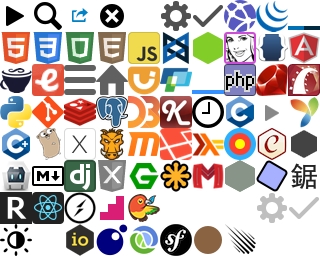
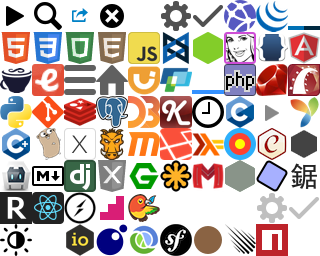
Add npm documentation

Changed region(s): [[0.7812, 0.875, 0.9062, 1.0]]

diff --git a/assets/stylesheets/global/_icons.scss b/assets/stylesheets/global/_icons.scss
@@ -99,3 +99,4 @@
 ._icon-symfony:before       { background-position: -5rem -7rem; }
 ._icon-mocha:before         { background-position: -6rem -7rem; }
 ._icon-meteor:before        { background-position: -7rem -7rem; @extend %darkIconFix !optional; }
+._icon-npm:before           { background-position: -8rem -7rem }

diff --git a/assets/stylesheets/pages/_npm.scss b/assets/stylesheets/pages/_npm.scss
@@ -1,0 +1,15 @@
+._npm {
+  @extend %simple;
+
+  .pageColumns {
+    padding-left: 0;
+    list-style: none;
+  }
+
+  .faint.heading {
+    font-size: .9em;
+    color: $textColorLight;
+  }
+
+  .youtube-video iframe { width: 420px; height: 315px; }
+}

diff --git a/assets/stylesheets/application-dark.css.scss b/assets/stylesheets/application-dark.css.scss
@@ -52,6 +52,7 @@
         'pages/moment',
         'pages/nginx',
         'pages/node',
+        'pages/npm',
         'pages/php',
         'pages/phpunit',
         'pages/postgres',

diff --git a/assets/stylesheets/application.css.scss b/assets/stylesheets/application.css.scss
@@ -52,6 +52,7 @@
         'pages/moment',
         'pages/nginx',
         'pages/node',
+        'pages/npm',
         'pages/php',
         'pages/phpunit',
         'pages/postgres',

diff --git a/assets/stylesheets/pages/_base.scss b/assets/stylesheets/pages/_base.scss
@@ -27,3 +27,4 @@
 ._sinon {
   @extend %simple;
 }
+

diff --git a/lib/docs/filters/npm/entries.rb b/lib/docs/filters/npm/entries.rb
@@ -1,0 +1,43 @@
+module Docs
+  class Npm
+    class EntriesFilter < Docs::EntriesFilter
+      def get_name
+        if slug.start_with?('api') && at_css('pre').content =~ /\A\s*npm\.([\w\-]+\.)*[\w\-]+/
+          name = $&.strip
+        else
+          name = at_css('nav > section.active a.active').content
+        end
+
+        name << ' (CLI)' if slug.start_with?('cli')
+        name
+      end
+
+      def get_type
+        case slug
+        when 'files/package.json'
+          'package.json'
+        when 'misc/config'
+          'Config'
+        else
+          at_css('nav > section.active > h2').content
+        end
+      end
+
+      def additional_entries
+        case slug
+        when 'files/package.json'
+          css('#page > h2[id]').each_with_object [] do |node, entries|
+            next if node.content =~ /\A[A-Z]/
+            entries << ["package.json: #{node.content}", node['id']]
+          end
+        when 'misc/config'
+          css('#config-settings ~ h3[id]').map do |node|
+            ["config: #{node.content}", node['id']]
+          end
+        else
+          []
+        end
+      end
+    end
+  end
+end

diff --git a/lib/docs/scrapers/npm.rb b/lib/docs/scrapers/npm.rb
@@ -1,0 +1,31 @@
+module Docs
+  class Npm < UrlScraper
+    self.name = 'npm'
+    self.type = 'npm'
+    self.version = '2.8.4'
+    self.base_url = 'https://docs.npmjs.com/'
+    self.links = {
+      home: 'https://www.npmjs.com/',
+      code: 'https://github.com/npm/npm'
+    }
+
+    html_filters.push 'npm/entries', 'npm/clean_html', 'title'
+
+    options[:container] = ->(filter) { filter.root_page? ? '.toc' : nil }
+    options[:title] = false
+    options[:root_title] = 'npm'
+
+    options[:skip] = %w(all)
+    options[:skip_patterns] = [
+      /\Aenterprise/,
+      /\Acompany/,
+      /\Apolicies/
+    ]
+
+    options[:attribution] = <<-HTML
+      &copy; npm, Inc. and Contributors<br>
+      Licensed under the npm License.<br>
+      npm is a trademark of npm, Inc.
+    HTML
+  end
+end

diff --git a/lib/docs/filters/npm/clean_html.rb b/lib/docs/filters/npm/clean_html.rb
@@ -1,0 +1,28 @@
+module Docs
+  class Npm
+    class CleanHtmlFilter < Filter
+      def call
+        if root_page?
+          css('#enterprise', '#policies', '#viewAll').remove
+        else
+          @doc = doc.at_css('#page')
+          css('meta', '.colophon').remove
+        end
+
+        css('> section', '.deep-link > a').each do |node|
+          node.before(node.children).remove
+        end
+
+        css('pre.editor').each do |node|
+          node.inner_html = node.inner_html.gsub(/<\/div>(?!\n|\z)/, "</div>\n")
+        end
+
+        css('pre').each do |node|
+          node.content = node.content
+        end
+
+        doc
+      end
+    end
+  end
+end
